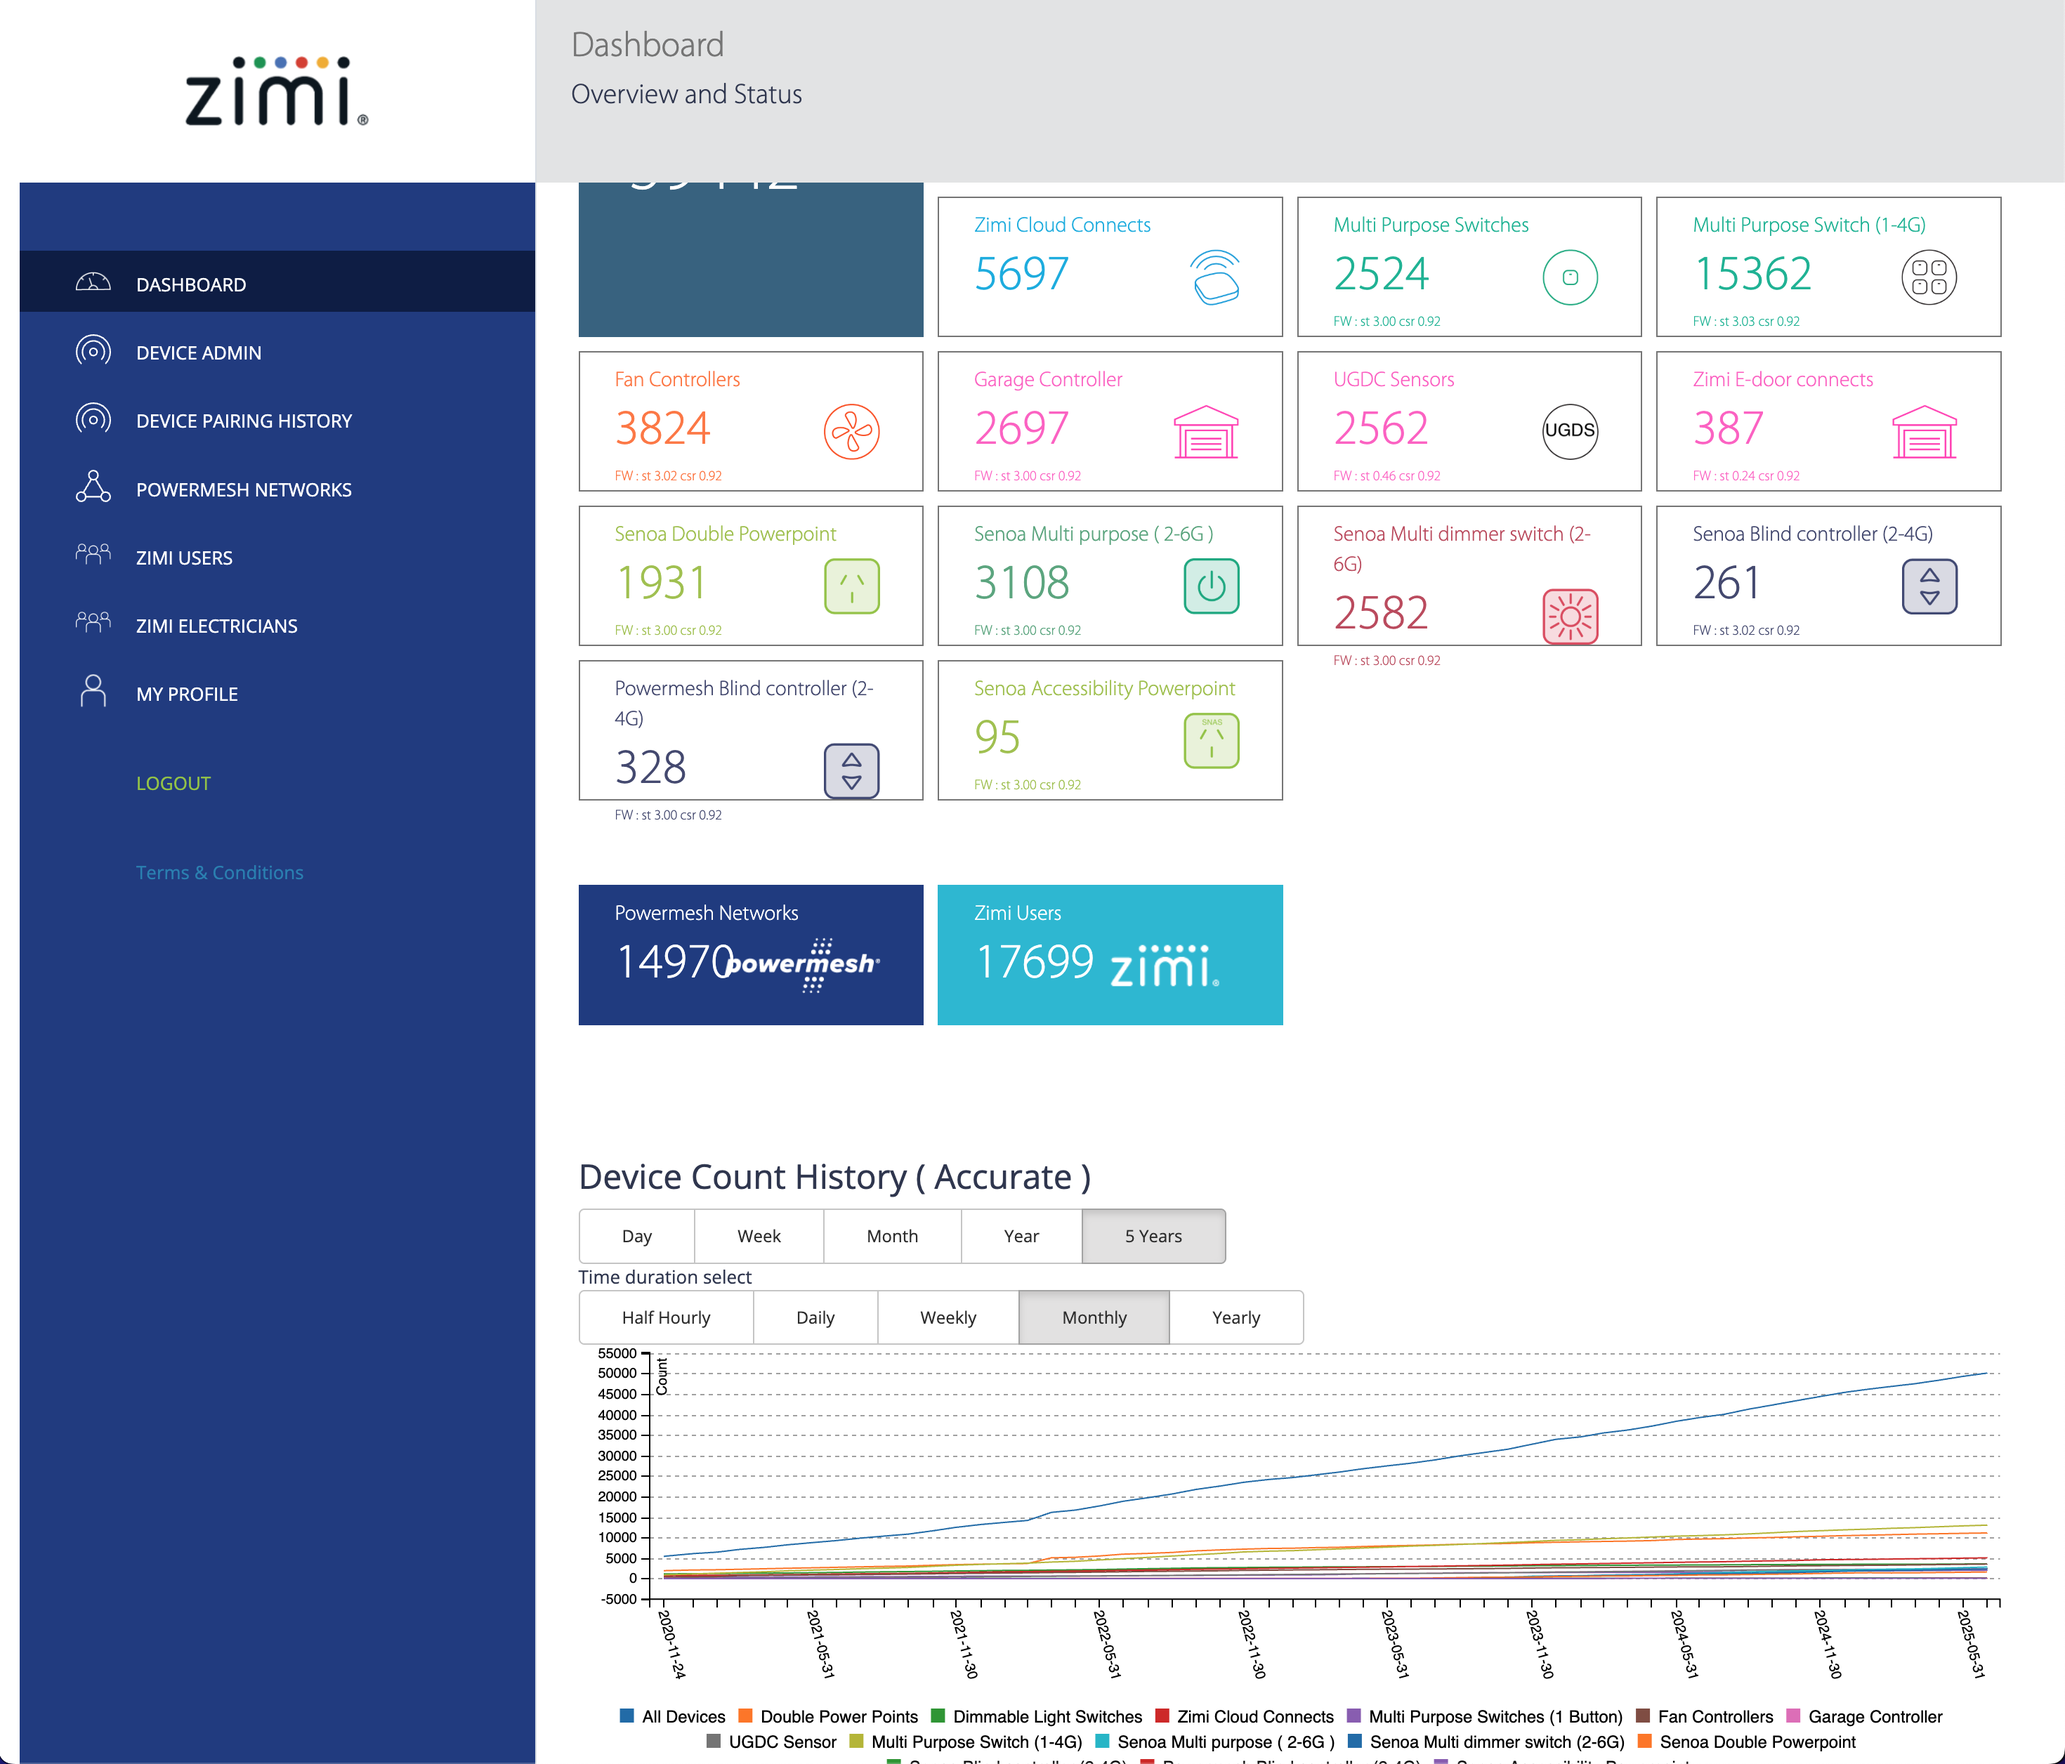
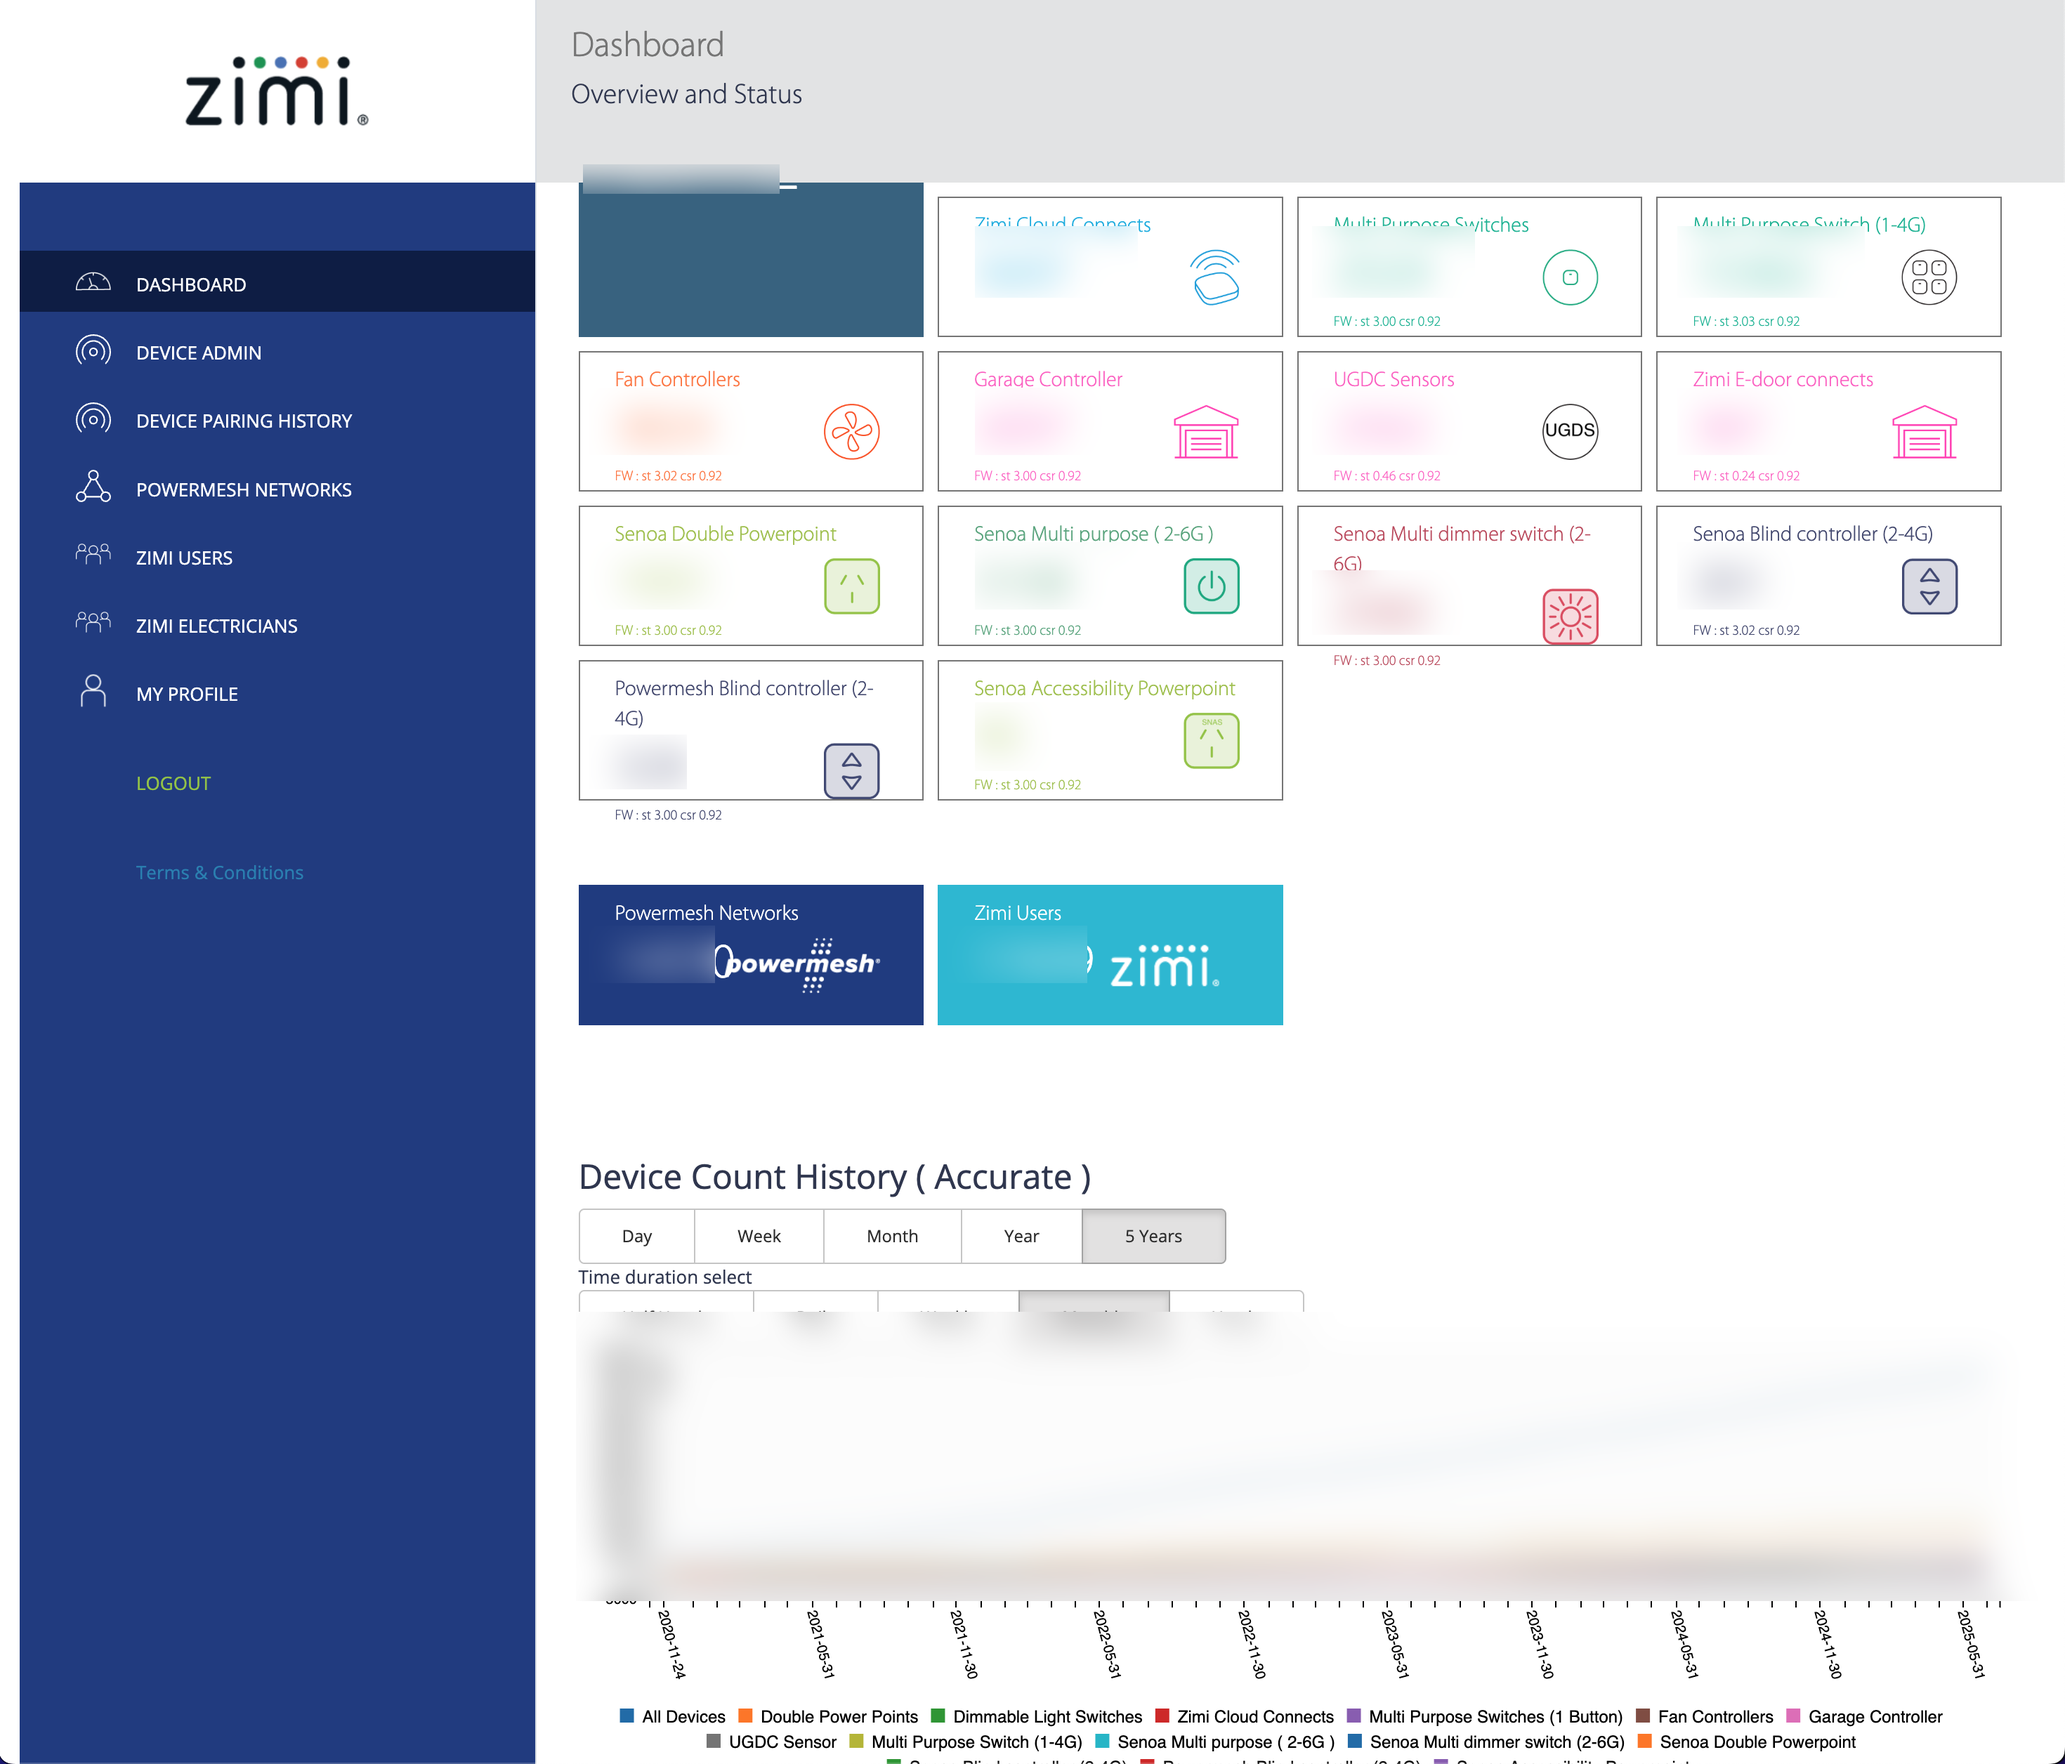
Publish C4 smart-home diagrams and redact dashboard metrics
Rewrite the LikeC4 post as a standalone C4 intro, add the diagramming
case study, and blur fleet counts on the IoT dashboard screenshot.

diff --git a/src/architecture/LIKEC4_GUIDE.md b/src/architecture/LIKEC4_GUIDE.md
@@ -1,5 +1,7 @@
 # LikeC4 Architecture Diagramming - Learning Guide
 
+`portfolio.likec4` in this folder models the **portfolio site** itself. The smart-home IoT C4 model lives in the sibling repo `nilushan-projects-c4` and is published as [Diagramming a Smart-Home IoT Platform with C4](/projects/iot-platform-architecture).
+
 A comprehensive guide to understanding and using LikeC4 DSL for architecture modeling.
 
 ## Table of Contents
